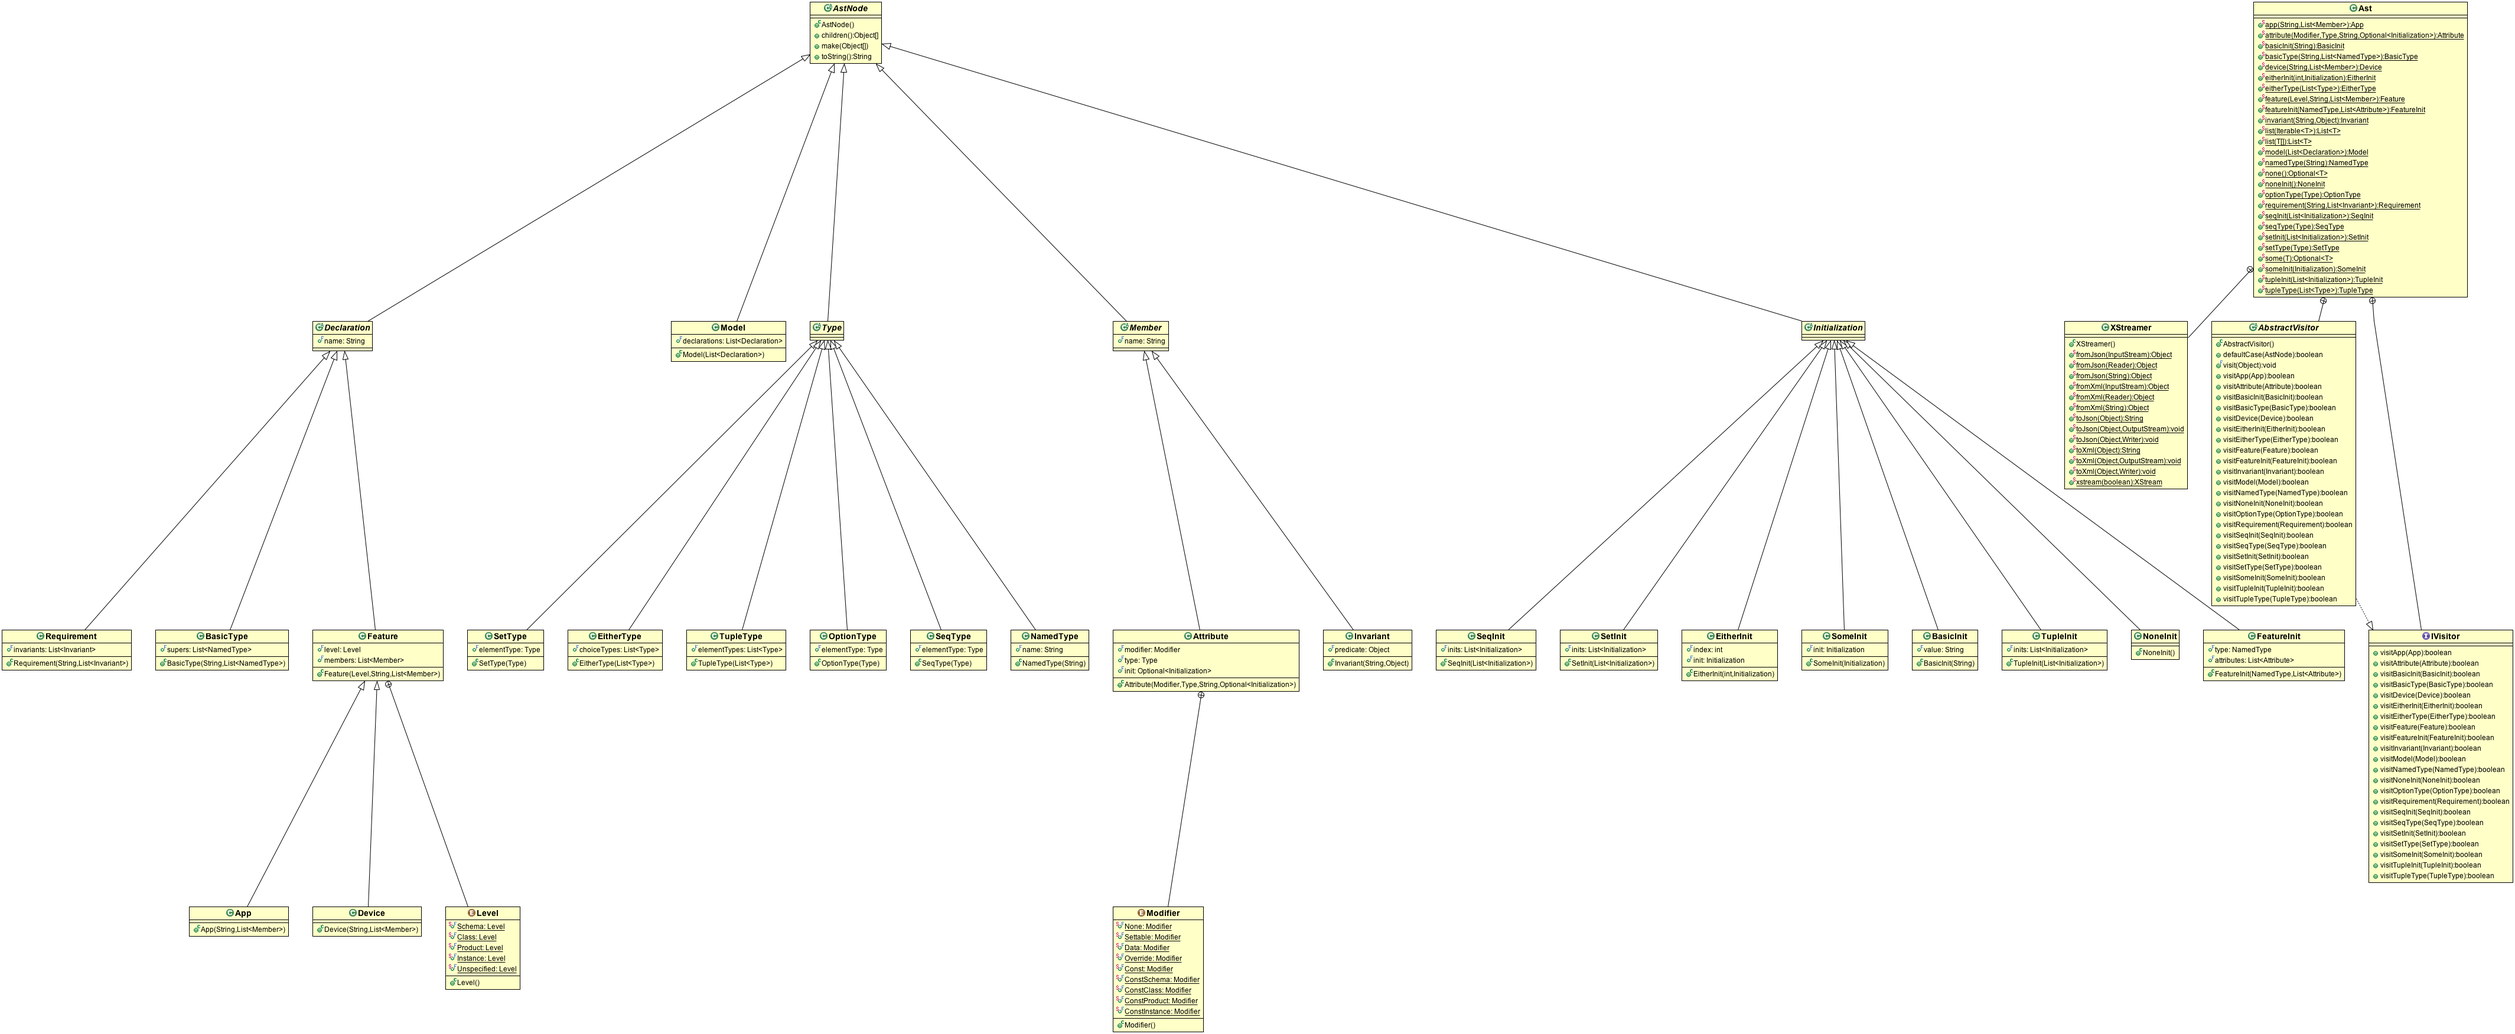
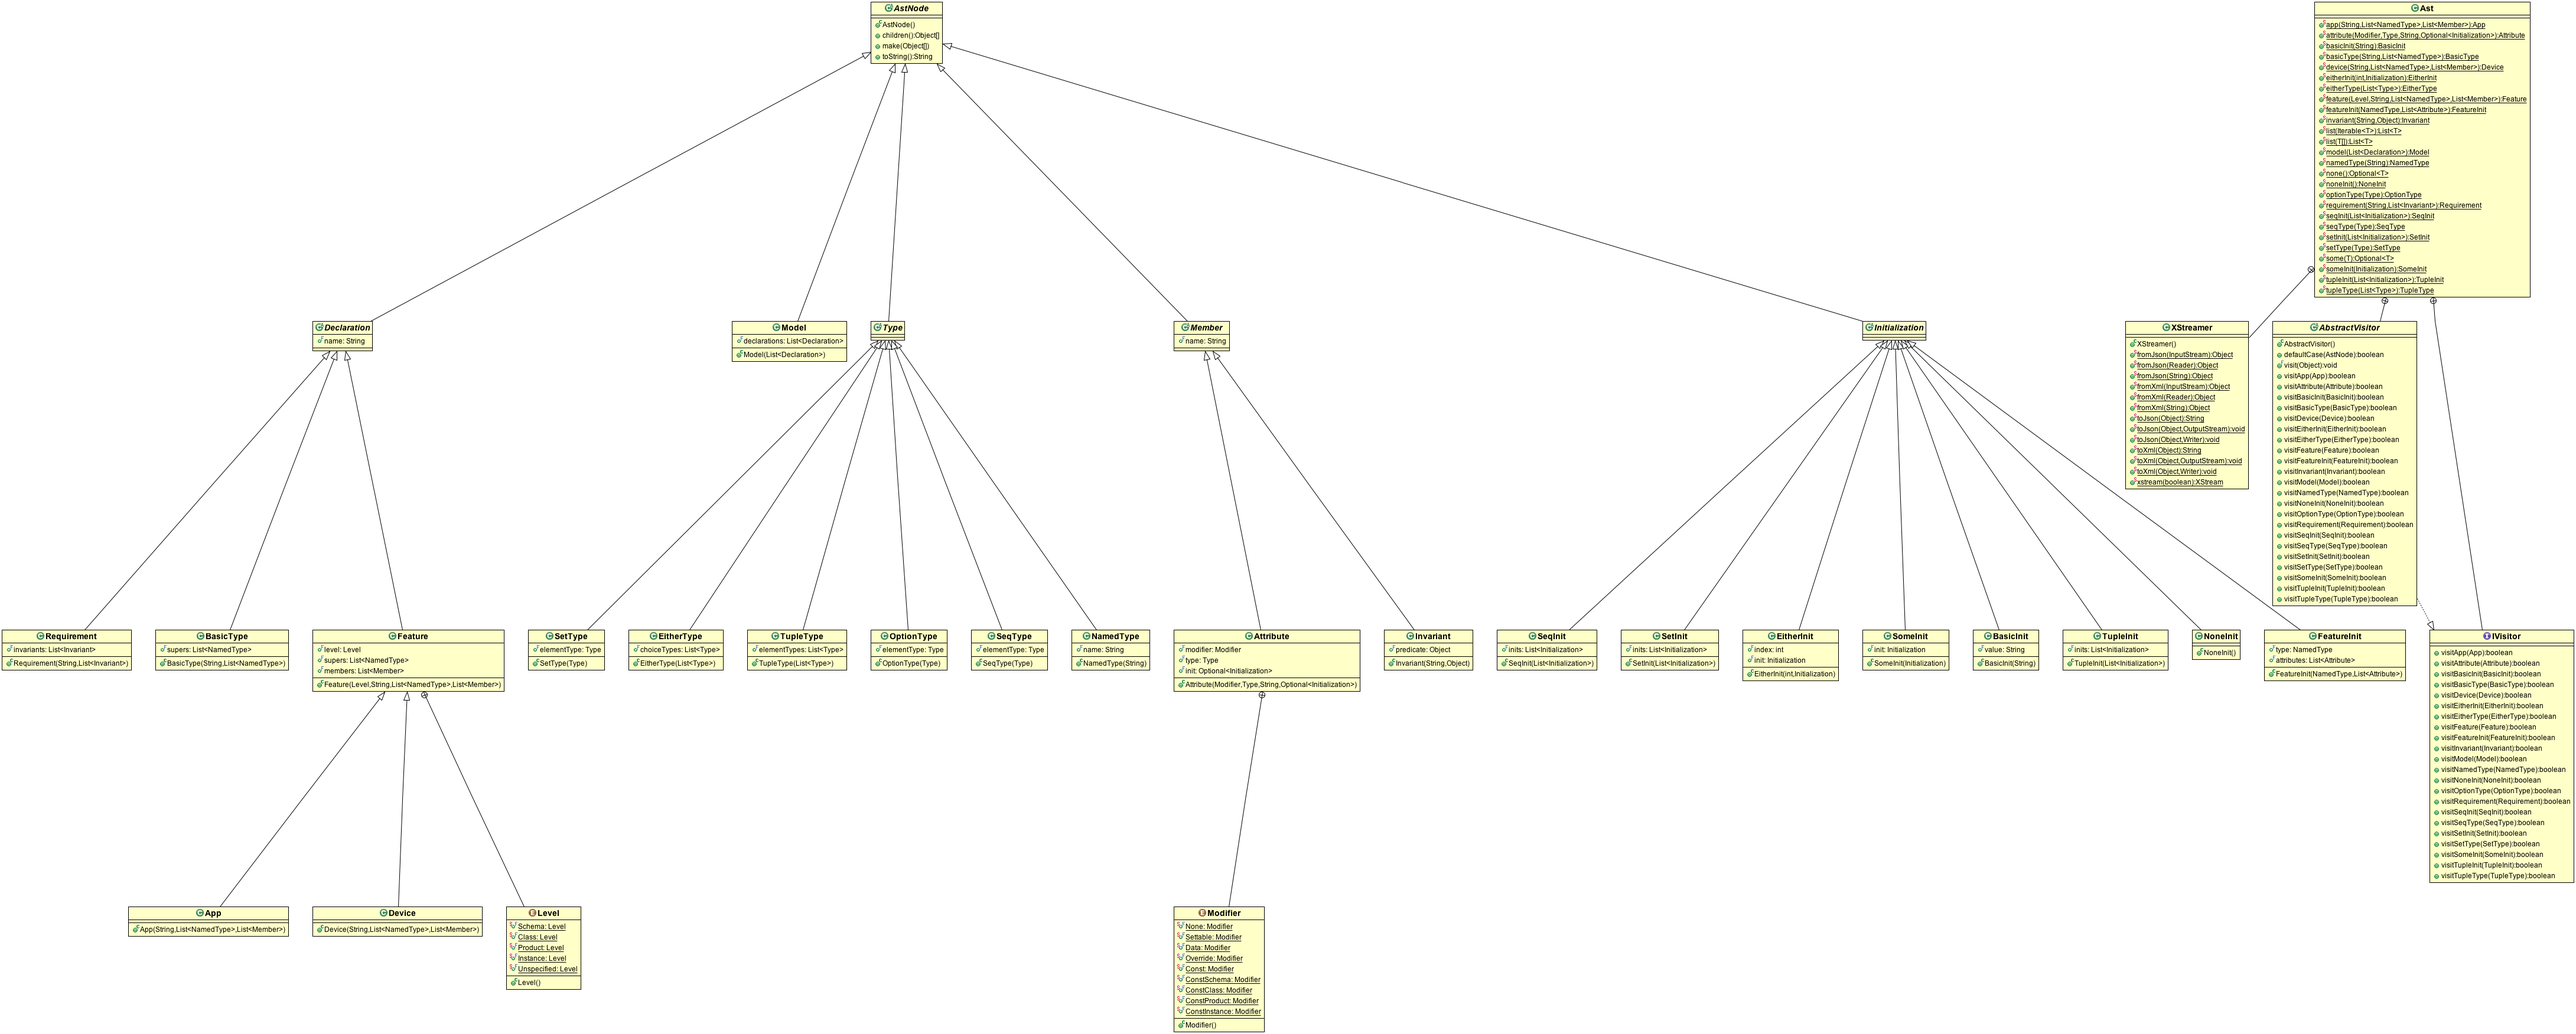
Added missing supers in Feature, App, and Device.

diff --git a/mdcf-dml-ast/src/edu/ksu/cis/santos/mdcf/dml/ast/Ast.java b/mdcf-dml-ast/src/edu/ksu/cis/santos/mdcf/dml/ast/Ast.java
@@ -365,8 +365,9 @@ public class Ast {
     }
   }
 
-  public static App app(final String name, final List<Member> members) {
-    return new App(name, members);
+  public static App app(final String name, final List<NamedType> supers,
+      final List<Member> members) {
+    return new App(name, supers, members);
   }
 
   public static Attribute attribute(final Modifier modifier, final Type type,
@@ -383,8 +384,9 @@ public class Ast {
     return new BasicType(name, supers);
   }
 
-  public static Device device(final String name, final List<Member> members) {
-    return new Device(name, members);
+  public static Device device(final String name, final List<NamedType> supers,
+      final List<Member> members) {
+    return new Device(name, supers, members);
   }
 
   public static EitherInit eitherInit(final int index, final Initialization init) {
@@ -396,8 +398,8 @@ public class Ast {
   }
 
   public static Feature feature(final Level level, final String name,
-      final List<Member> members) {
-    return new Feature(level, name, members);
+      final List<NamedType> supers, final List<Member> members) {
+    return new Feature(level, name, supers, members);
   }
 
   public static FeatureInit featureInit(final NamedType type,

diff --git a/mdcf-dml-ast/src/edu/ksu/cis/santos/mdcf/dml/ast/Feature.java b/mdcf-dml-ast/src/edu/ksu/cis/santos/mdcf/dml/ast/Feature.java
@@ -22,18 +22,21 @@ public class Feature extends Declaration {
 
   public final Level level;
 
+  public final List<NamedType> supers;
+
   public final List<Member> members;
 
   public Feature(final Level level, final String name,
-      final List<Member> members) {
+      final List<NamedType> supers, final List<Member> members) {
     super(name);
     this.level = level;
+    this.supers = list(supers);
     this.members = list(members);
   }
 
   @Override
   protected Object[] getChildren() {
-    return new Object[] { this.level, this.name, this.members };
+    return new Object[] { this.level, this.name, this.supers, this.members };
   }
 
   @Override

diff --git a/mdcf-dml-ast/src/edu/ksu/cis/santos/mdcf/dml/ast/App.java b/mdcf-dml-ast/src/edu/ksu/cis/santos/mdcf/dml/ast/App.java
@@ -15,12 +15,13 @@ import java.util.List;
  */
 public final class App extends Feature {
 
-  public App(final String name, final List<Member> members) {
-    super(Feature.Level.Product, name, members);
+  public App(final String name, final List<NamedType> supers,
+      final List<Member> members) {
+    super(Feature.Level.Product, name, supers, members);
   }
 
   @Override
   protected Object[] getChildren() {
-    return new Object[] { this.name, this.members };
+    return new Object[] { this.name, this.supers, this.members };
   }
 }

diff --git a/mdcf-dml-ast/src/edu/ksu/cis/santos/mdcf/dml/ast/Device.java b/mdcf-dml-ast/src/edu/ksu/cis/santos/mdcf/dml/ast/Device.java
@@ -15,8 +15,9 @@ import java.util.List;
  */
 public final class Device extends Feature {
 
-  public Device(final String name, final List<Member> members) {
-    super(Feature.Level.Product, name, members);
+  public Device(final String name, final List<NamedType> supers,
+      final List<Member> members) {
+    super(Feature.Level.Product, name, supers, members);
   }
 
   @Override
